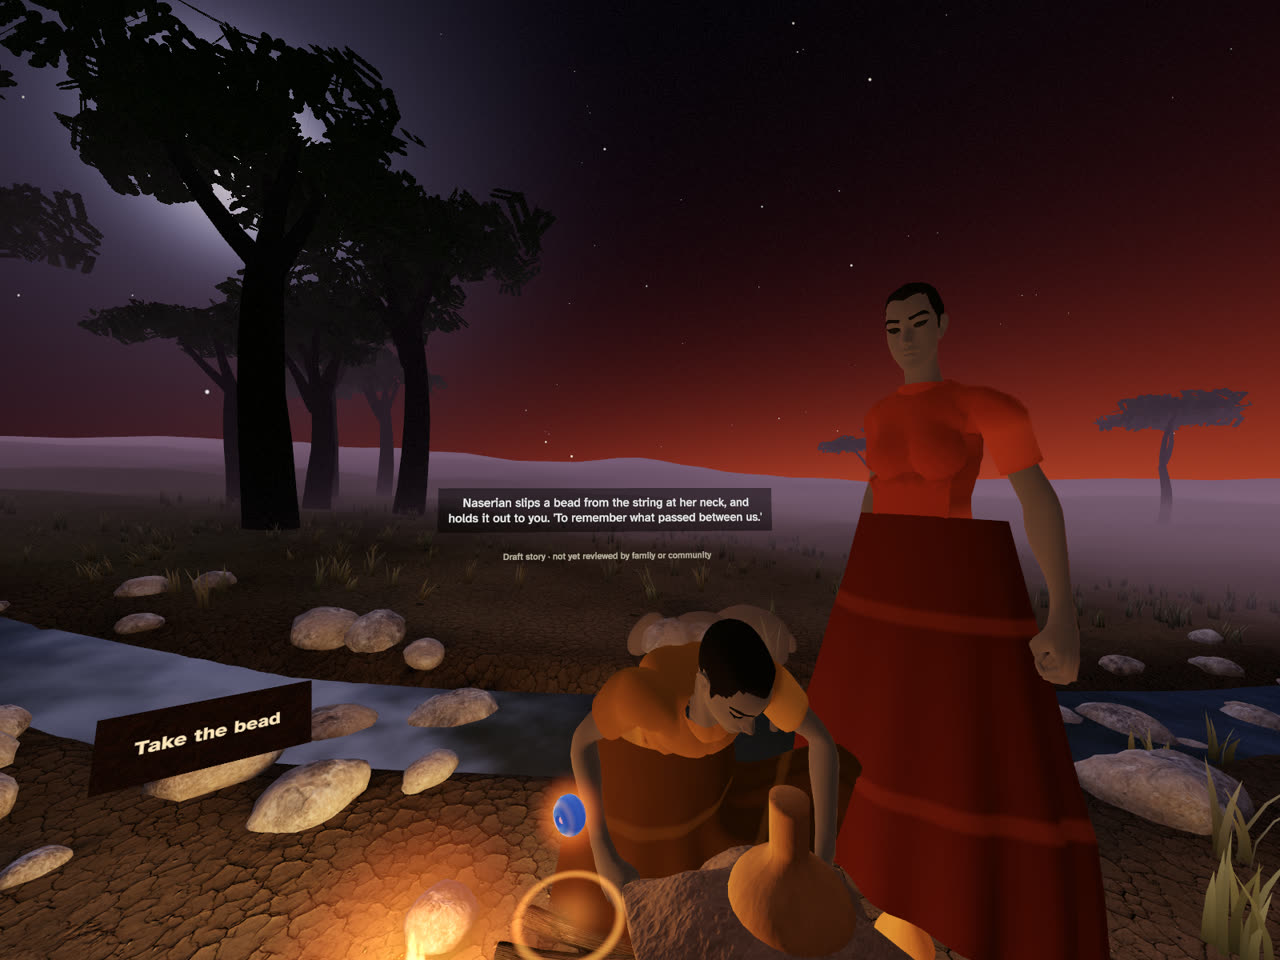
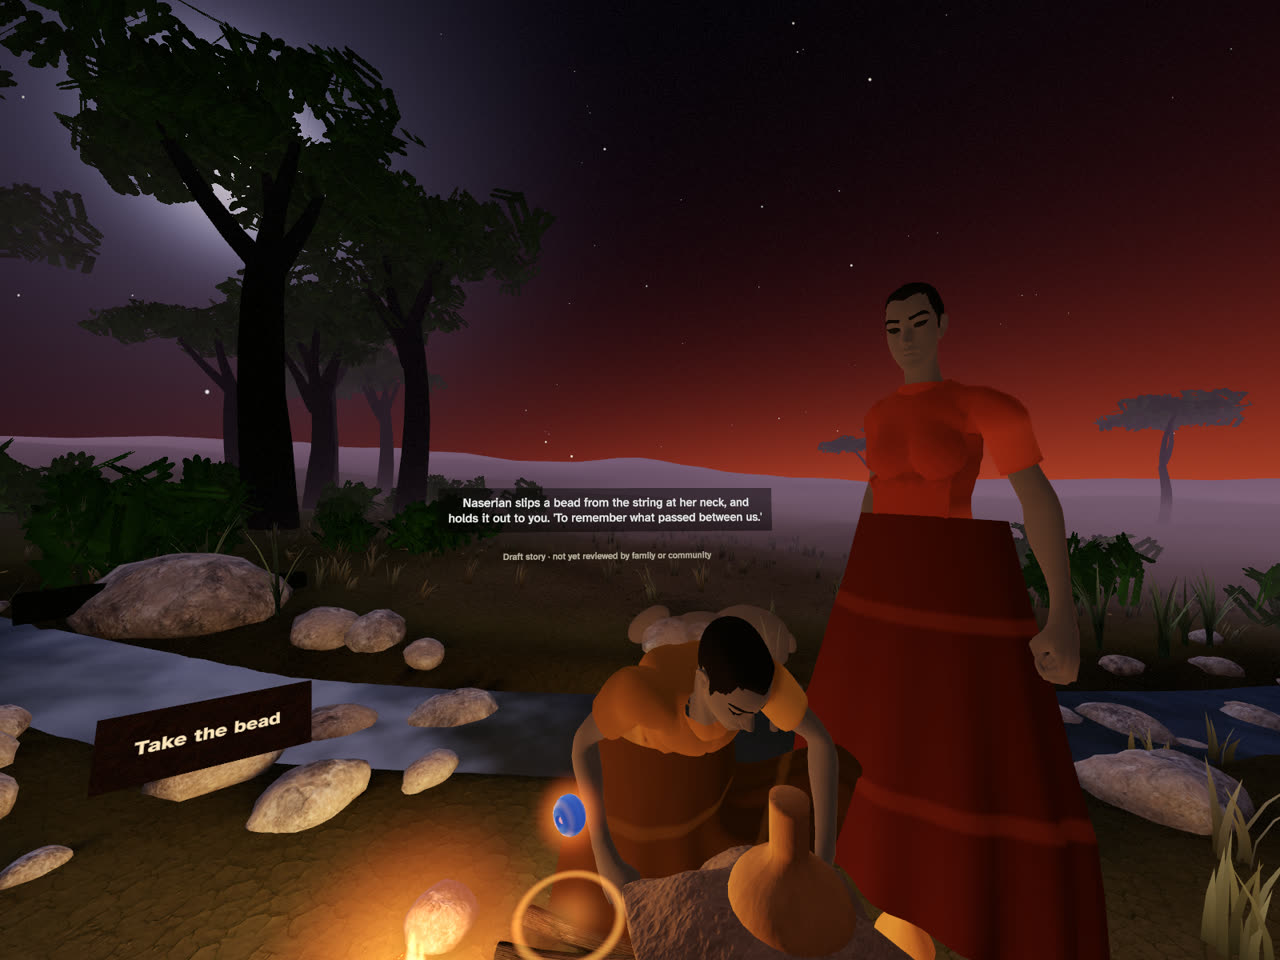
docs: record environment verification and refresh comparison gallery

diff --git a/docs/asset-register.md b/docs/asset-register.md
@@ -8,10 +8,11 @@ The current build uses project-made, generated and SDK-provided material; Quater
 | `unity/Assets/Sankofa/Art/Generated/*.mat` | Materials for the hearth and the Enkare Nairobi scenes (water, ember figures, city, gourds, hide, canvas, rail steel, soil) | Generated by `SankofaArt` | Project-authored | Desktop renders only; no context review |
 | `unity/Assets/Sankofa/Art/Generated/Noise.asset` | Flame, curtain, smoke and sky motion | Seeded value noise generated by `SankofaArt` | Project-authored | Not device-reviewed |
 | `unity/Assets/Sankofa/Art/Generated/Detail.asset` | Grain in earth, stone, bark and char | Seeded fractal height and normal map generated by `SankofaArt` | Project-authored | Not device-reviewed |
-| `unity/Assets/Sankofa/Art/Generated/Foliage.asset` | Leaf sprigs on three-dimensional canopy clusters | Original deterministic leaf artwork generated by `SankofaArt`; cutout alpha with coverage-preserving mipmaps | Project-authored | Desktop review only; generic foliage, not verified botanical reconstruction; alpha overdraw needs device profiling |
+| `unity/Assets/Sankofa/Art/Generated/Foliage.asset` | Leaf sprigs on three-dimensional canopy clusters, understory shrubs and community planting | Original deterministic leaf artwork generated by `SankofaArt`; cutout alpha with coverage-preserving mipmaps | Project-authored | Desktop review only; generic foliage, not verified botanical reconstruction; alpha overdraw needs device profiling |
 | `unity/Assets/Sankofa/Art/Generated/Meshes` | Hearth; the stream between forest and plain (1850s, 1899), its camp, and the river in the city today: terrain, water, trees and acacias, stones, gourds, hide, rails, tents, gate, *jiko*, city blocks, ember-and-smoke figures | Generated by `SankofaMeshes` and `SankofaStoryMeshes`; occlusion and light shadows baked by `SankofaBake` | Project-authored | Desktop renders only; forms of gourds, hide, figures, tents and the city need family and context review; not profiled on a headset |
 | `unity/Assets/Sankofa/Art/Figures/UAL1_Standard.fbx` | Walk, idle, kneel (`Fixing_Kneeling`), reach (`Interact`) and talk animation; the library mannequin is no longer the visible body | Quaternius, [Universal Animation Library](https://quaternius.com/packs/universalanimationlibrary.html), free Standard tier, downloaded October 8, 2026. Archive and file hashes in `sources.json`; raw archive in ignored `vendor/quaternius/` | CC0 1.0, bundled `UAL-License.txt` | Generic animation paths verified against the new skeleton; desktop poses only; no headset review |
 | `unity/Assets/Sankofa/Art/Figures/Superhero_Female_FullBody.fbx` and `Hair_BuzzedFemale.fbx` | Generic fictional women with anatomical faces, hands and short hair; base for project-made skinned clothing | Quaternius, [Universal Base Characters](https://quaternius.com/packs/universalbasecharacters.html), free Standard tier, downloaded October 10, 2026 (October 11 UTC). Exact archive/file hashes and transformations in `base-characters.sources.json` | CC0 1.0, bundled `License_Standard.txt`; normal free download, no paid tier or extra runtime dependency | Desktop standing, kneeling and exchange studies; generic anatomy, hair and dress are theatrical reconstruction pending family/cultural review; no real-person likeness claim |
+| `unity/Assets/Sankofa/Editor/SankofaEnvironment.cs` and generated environment meshes | Clustered understory, bank sedges, fallen limbs/leaves, edge outcrops, camp stores and community beds | Original seeded mesh construction; existing registered materials and foliage artwork | Project-authored; existing CC0 scan terms remain unchanged | Desktop review only; generic reconstruction, not verified species, period artefacts or planting layout; cutout overdraw and shadows need Quest review |
 | `unity/Assets/Sankofa/Art/Generated/Figure*.asset` | Narrowed body, fitted skinned top, folded wrap, painted eyes and blink blendshape | Derived by `SankofaFigures` from the CC0 base character/skeleton; covered leg and torso geometry removed to avoid clothing intersections; collar and sleeves retain the artist's joint weights | CC0 source permits modification and redistribution; garment construction, eye paint and blink deformation project-authored | Desktop review; not verified historical clothing or device-accepted art |
 | `unity/Assets/Sankofa/Art/Recorded` | Every sound except the narration. Hearth: campfire, Maasai Mara crickets and night, wind in grass. Story scenes: the traders' small fire, a brook, the ewe's bleats, a distant animal bell, hammering on metal spikes, tent canvas in wind, a matatu stage in Nairobi, a far city | Freesound field recordings by matucha, SterckxS, selcukartut (Maasai Mara, Kenya), tim.kahn, celldroid, visualasylum, bruno.auzet, Yuval, BonnyOrbit, blacknoutproductions (Nairobi) and felix.blume. The user approved downloading the HQ previews on October 7, 2026. `scripts/prepare_recordings.py` trims them, folds them to mono, sets their level and crossfades loops; nothing is synthesised. Per-file source, licence, edit and SHA-256 hashes are in `sources.json` | CC0 1.0 (seven recordings); CC BY 3.0 or 4.0 (five, credited in [`credits.txt`](../unity/Assets/Sankofa/Content/credits.txt), shown in the app's settings) | Not listening-reviewed. The matatu recording has not been checked for incidental music. The bell and sheep are European recordings, for family review. No voices are placed in the past |
 | `unity/Assets/Sankofa/Resources/Narration/enkare-nairobi` | The griot's voice: 85 lines, about 15.7 minutes | Generated October 4, 2026; three passive/return lines revised and regenerated October 10, 2026 by `scripts/generate_narration.py` with Google Cloud Text-to-Speech, model `gemini-3.1-flash-tts-preview` (a preview model), voice Kore, using the original web Sankofa griot's delivery direction (the user's own work); per-line settings in `Content/enkare-nairobi.narration.json` | Google Cloud terms for generated output (customer owns the output per Google's terms; **to be confirmed before release**, including preview-model terms) | Development voice. The user preferred this model over 2.5 Flash/Pro in a listening comparison; no fluent-listener or community review; pronunciation of *Enkare Nairobi*, *oloirien* and the names unchecked |
@@ -21,7 +22,7 @@ The current build uses project-made, generated and SDK-provided material; Quater
 | Unity primitives | Blockout geometry | Unity built-in resources | Unity's terms for built-in resources | Blockout only |
 | `unity/Assets/Sankofa/Art/Scanned/rock_boulder_dry` | Hearth and standing stones (colour and OpenGL normal, 1K) | [Poly Haven](https://polyhaven.com/a/rock_boulder_dry), by Dimitrios Savva and Rico Cilliers | CC0 1.0; no attribution required | Desktop renders only; not device-reviewed |
 | `unity/Assets/Sankofa/Art/Scanned/burned_ground_01` | Fire pit and ash ring | [Poly Haven](https://polyhaven.com/a/burned_ground_01), by Rob Tuytel | CC0 1.0 | Desktop renders only |
-| `unity/Assets/Sankofa/Art/Scanned/dry_ground_01` | Clearing ground | [Poly Haven](https://polyhaven.com/a/dry_ground_01), by Rob Tuytel | CC0 1.0 | Desktop renders only; its cracked dry-earth look implies a dry season, to revisit with the chosen setting |
+| `unity/Assets/Sankofa/Art/Scanned/dry_ground_01` | Clearing ground | [Poly Haven](https://polyhaven.com/a/dry_ground_01), by Rob Tuytel | CC0 1.0 | Desktop renders only; exposed earth retains the dry scan; authored organic cover suppresses cracks beneath woodland and along damp banks; season and ecology remain unreviewed |
 | `unity/Assets/Sankofa/Art/Scanned/bark_brown_02` | Seats, burning logs and tree trunks | [Poly Haven](https://polyhaven.com/a/bark_brown_02), by Rob Tuytel | CC0 1.0 | Desktop renders only |
 | `unity/Assets/Sankofa/Art/Fonts/AtkinsonHyperlegible` | Caption and label typeface, designed for low-vision readability | [Google Fonts](https://github.com/google/fonts/tree/main/ofl/atkinsonhyperlegible); © 2020 Braille Institute of America | SIL Open Font License 1.1 (`OFL.txt`), whose notice must appear in the release credits | Desktop renders only; legibility not yet tested with readers |
 | Hand meshes and materials | Visible tracked hands | Meta XR Core SDK 207 prefabs | Meta's SDK licence | Not reviewed for release |

diff --git a/docs/decisions.md b/docs/decisions.md
@@ -391,3 +391,15 @@ The user asked to continue the visual work after round 12. This pass addresses S
 - **Generation:** figure caches reset for each scene build, including repeated menu use in one editor session. Imported assets, source licences and the local-only exclusion rules remain in place. No new paid dependency, runtime service, music or external asset download was added.
 
 Verification: **114 .NET checks, 20 EditMode checks and 12 PlayMode checks passed** on the final implementation. The added checks independently ray-test garment coverage around the waist, check the authored eye shape, pause during an observed blink, and verify that the held hand releases. The full journey captures and existing recovery/keep/replay checks also pass. Visible scene costs, counting both figure passes, are **126,985 triangles at the hearth, 243,292 before the railway, 204,980 in 1899 and 118,156 today**, with 17–63 enabled renderers. The review gallery compares the same journey view with round 12 (`e3788de`), with separate standing, kneeling and exchange pose studies. Software renders cannot establish Quest immersion, sustained performance, hand-tracking quality or cultural accuracy. Full question/interruption replay and the PRD's remaining personalised-story requirements remain open.
+
+## Polish round 14: environment depth and signs of use — October 11, 2026
+
+The user asked for an environment-focused pass because the spaces felt bare. This addresses SK-11 through the editor scene/material builders and a new presentation-only `SankofaEnvironment` module, with the existing SK-15 geometry limits retained. The visible goal is a sheltered hearth, an ecologically distinct riverbank and a camp/garden that reads as used. This supports Polish & Presentation and Experience Design; it does not add story branches or establish device acceptance.
+
+- **Depth:** seeded low shrubs, fallen limbs, leaf litter and edge outcrops frame the clearing and historical water scenes. Bank sedges follow the stream outside the exchange corridor. The seat, near hand targets and central performer routes remain open. Details move in the existing stage frame.
+- **Ground:** UV.x retains the fire's ash blend; UV.y now carries an authored organic-cover mask. Damp banks and woodland suppress the parched scan's cracks and normal relief; exposed and trampled earth retain the scan. The mask has smooth spatial variation, using the existing texture for grain. This adds one fragment texture lookup, requiring hardware profiling.
+- **Use:** the camp adds slatted store crates, a simple awning, canvas sacks and hooped wooden barrels. Today's far bank gains planted timber beds. These are generic reconstructions, not verified period artefacts, species or a surveyed garden. No new external asset, paid service, music or runtime integration was added.
+- **Lighting:** canopy material is brighter to preserve readable foliage; the existing overcast sky has stronger broad cloud variation. Combined static meshes receive the existing editor lighting bake, with alpha-cutout foliage excluded from rectangular shadow occlusion. Cutout overdraw, vertex memory and fragment cost remain device questions.
+- **Evidence:** the gallery compares actual seated journey captures against round 13 (`a52337a`). A separate environment capture study looks toward the camp stores with captions and story objects hidden; it is labelled as staged, rather than visitor evidence.
+
+Verification on implementation `75f9107`: **114 .NET checks, 20 EditMode checks and 13 PlayMode checks passed** (the PlayMode total includes the environment, figure and complete-journey capture studies). Existing pause, recenter, sharing, keep/forget and replay checks passed. Regenerated scene costs, counting both figure passes, are **148,009 triangles / 21 renderers at the hearth, 265,666 / 43 before the railway, 223,174 / 48 in 1899 and 132,780 / 70 today**. All remain below the unchanged 300,000-triangle / 175-renderer proxy limits. The competition workspace and document-link checks pass. These are software tests and desktop captures; no headset, sustained device performance or cultural acceptance is established. Tree forms, repeated tent silhouettes and city facades remain visibly procedural; bespoke environment art is still an opportunity.

diff --git a/README.md b/README.md
@@ -39,13 +39,25 @@ Desktop renders from the seated eye, made by the capture test. They are not head
 
 ![The same 1899 journey view before and after the character and lighting revision](docs/media/figures-comparison.jpg)
 
-*Left: polish round 12 (`e3788de`). Right: the current character and foliage revision. Both are actual desktop journey captures with the same camera framing.*
+*Left: polish round 12 (`e3788de`). Right: the current scene, including the character, foliage and environment revisions. Both are actual desktop journey captures with the same camera framing.*
 
 | Standing | Kneeling | Sharing |
 |---|---|---|
 | ![The new skinned figure standing in lantern light](docs/media/figure-standing.jpg) | ![The skinned wrap covering the kneeling pose](docs/media/figure-kneeling.jpg) | ![Two women settling and pouring between their gourds](docs/media/figure-sharing.jpg) |
 
 *Close-up pose studies from the runtime, staged for inspection with captions hidden. These are presentation studies, not proof of visitor hand tracking or historical dress.*
+
+## Environment revision
+
+![The same hearth view before and after the environment pass](docs/media/environment-hearth-comparison.jpg)
+
+![The same early-stream view before and after the environment pass](docs/media/environment-stream-comparison.jpg)
+
+*Left: round 13 (`a52337a`). Right: the current environment pass. Both panels use actual desktop journey captures with the same seated camera framing. Shrubs, fallen limbs, leaf litter and outcrops frame the clearing; organic ground cover and bank vegetation replace the uniformly parched river edge. The camp gains stores and today gains planted beds. These are authored reconstructions awaiting context and device review.*
+
+![Camp stores beneath a simple awning beside the tents](docs/media/camp-stores.jpg)
+
+*A seated view toward the camp's stores, staged in the runtime with story objects and captions hidden for environment inspection. This is a presentation study, not visitor or device evidence.*
 
 ## Status
 

diff --git a/docs/content/enkare-nairobi/scenes.md b/docs/content/enkare-nairobi/scenes.md
@@ -143,3 +143,9 @@ Order, roughly 6 weeks:
 4. **Build "today":** river, garden, city, *jiko*, and both continuation routes.
 5. **Polish:** comfort, captions, accessibility, failure paths. Capture footage on the device.
 6. **Freeze, then submit:** freeze the candidate, run an external install test, write the description and credits, submit.
+
+## Environment dressing implemented October 11, 2026
+
+`SankofaEnvironment` generates presentation assets independently of story rules. The hearth now has clustered low shrubs, fallen limbs, leaf litter and rock outcrops at the edge of its clearing. The two historical scenes share the watercourse and ecological ground mask: damp organic cover replaces the dry scan near the water and beneath woodland, while the railway camp keeps a trampled central area. Sedge-like blades follow the stream outside the exchange corridor. The camp adds slatted stores, a simple awning, canvas sacks and hooped wooden barrels; today adds planted timber beds on the far bank. These are generic authored reconstructions, not reviewed period objects, botanical species or a surveyed garden layout.
+
+Dressing stays out of the visitor's seat, near hand targets and the central performer routes. Static pieces are combined by material, receive the existing vertex lighting bake, and move with the stage. Foliage cards retain real three-dimensional placement and depth writes; their rectangular bounds do not become opaque bake occluders. The sky's existing cloud deck has stronger broad variation. Sound, narration and story consequences are unchanged. Desktop captures and the geometry proxy do not establish Quest appearance, comfortable visibility or sustained frame rate.
